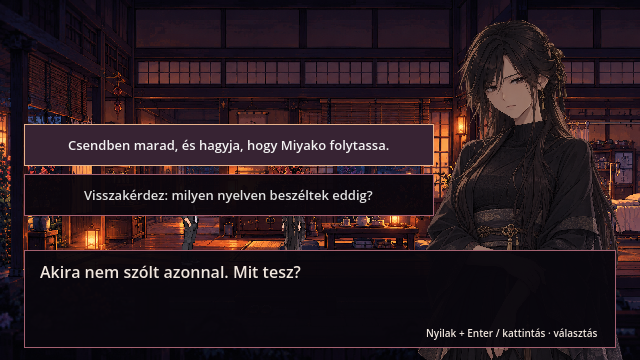
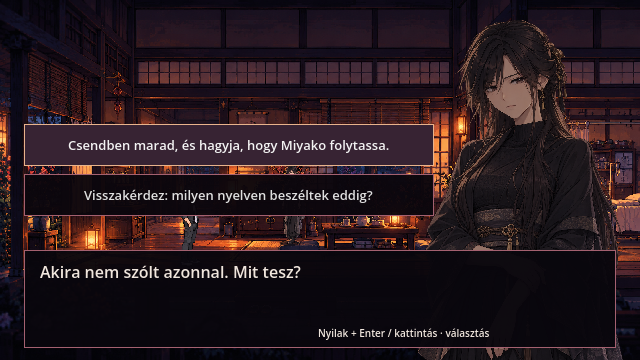
Unblock interior passage and add explicit dialogue continuation

Changed region(s): [[0.5, 0.9167, 0.9375, 0.9472], [0.4375, 0.5806, 0.5, 0.7028], [0.4375, 0.4583, 0.4688, 0.4889]]

diff --git a/docs/INTERIOR_PASSAGE_AND_CONTINUATION_REVIEW.md b/docs/INTERIOR_PASSAGE_AND_CONTINUATION_REVIEW.md
@@ -1,0 +1,11 @@
+# Átjárás és folytatás — 2026-10-03 REVIEW
+
+Miyako belső pozíciója (290,244), a meglévő járósáv előtt elegendő ütközési távolsággal. A szereplő továbbra is szilárd, Akira nem megy át rajta. A teszt tényleges jobbra/balra mozgással ellenőrzi a megkerülést. A padlóhatárok nem kerültek a lépcsőre vagy bútorokra.
+
+A VN külön kattintható Kiírás / Tovább / Válasz / Befejezés gombot kapott. A választóképernyőn ez eltűnik. A meglévő billentyűk megmaradtak.
+
+A benti párbeszéd lezárása után a jobb oldali sávban (x > 435) E indítja az első éjszaka forrás szerinti narrációját. Ez REVIEW szöveges fejezetátvezetés sötét háttérrel; hálószobakép és férfihang-felvétel még hiányzik. Miyako portréja nem jelenik meg az éjszakai említés alatt. Az utolsó nyugtázás first_night_seen jelzőt állít, majd fejezetzárás és főmenü-gomb következik. A II. fejezet nincs kész.
+
+Kuroe: origin/main ellenőrizve. A KUROE_PRODUCTION_SPEC.md, CHARACTER_BIBLE, DECISION_LOG és VISUAL_REFERENCE_INDEX már tartalmazza a 2026-10-03 LOCKED irányt. A hivatkozott KUROE_PRIMARY_CHARACTER_REFERENCE_V1.png, KUROE_STORY_KEY_VISUAL_V1.png és KUROE_MUSIC_ROOM_REFERENCE_V1.png nem található a GitHub fájlfájában. Nem készült kitalált helyettesítő karakter. A képi authority és a runtime atlasz továbbra is külön hiányzó asset.
+
+Ellenőrzés: tests/ui/interior_regression.tscn mindkét döntéság, mindkét irányú átjárás, éjszakai továbblépés, gombos szövegkiírás, szövegelhelyezés és záró jelző. A külső VN tesztje is lefutott.

diff --git a/docs/PROGRESS.md b/docs/PROGRESS.md
@@ -12,7 +12,9 @@ Miyako külső találkozása már kézzel léptethető VN-jelenet: névtábla, R
 
 Az első benti beszélgetés és két eredeti választása működik, explicit E-belépéssel, Library háttérrel, halkuló esővel és egyszeri állapotmódosítással. Lezárás után a nappali első járósávja használható. Részletek: [MIYAKO_INTERIOR_REVIEW](MIYAKO_INTERIOR_REVIEW.md).
 
-Hátralévő: a jóváhagyott Hana/Kuroe/Shion cameók, teljes házbelső és interakciók, első éjszaka, teljes 10–15 perces narratív flow, végleges VN-portrék, animáció és hang. Combat/inventory/route/komplex mentés nincs kész.
+Az átjárás javítva: Miyako mellett mindkét irányban el lehet menni. A VN külön Tovább gombot kapott. Jobbra E indítja az első éjszaka szöveges átvezetését, majd fejezetzárás és főmenü-gomb következik. Részletek: [INTERIOR_PASSAGE_AND_CONTINUATION_REVIEW](INTERIOR_PASSAGE_AND_CONTINUATION_REVIEW.md).
+
+Hátralévő: a jóváhagyott Hana/Kuroe/Shion cameók, teljes házbelső és interakciók, éjszakai kép/hang, II. fejezet, teljes 10–15 perces narratív flow, végleges VN-portrék, animáció és hang. Combat/inventory/route/komplex mentés nincs kész.
 
 2026-10-01 technikai rendezés: a régi 3D ág archive/legacy_3d alá került, importbeállításokkal és szerkesztőeszközökkel együtt. Az aktív arrival_director már csak Miyako köszöntését vezérli; Akira explicit street referenciát kap. A korábbi szöveg-, talaj- és ütközésjavítások megmaradtak.
 

diff --git a/README.md b/README.md
@@ -14,7 +14,7 @@ WASD / nyilak: séta. E: figyelés, továbbhaladás a helyszín kijáratánál, 
 
 ## Aktuális állapot
 
-Miyako előtt E indítja az első VN-jelenetet. E / Space / Enter / bal kattintás kiírja az aktuális mondatot, majd továbblép. A beszélgetés megvárja az olvasót. Utána újabb E belép a házba: benti beszélgetés, két eredeti választás, majd rövid bejárható belső sáv. A karakter keret nélküli, átlátszó hátterű REVIEW kép. Az első éjszaka még nincs beépítve.
+Miyako előtt E indítja az első VN-jelenetet. E / Space / Enter / bal kattintás kiírja az aktuális mondatot, majd továbblép. A beszélgetés megvárja az olvasót. Utána újabb E belép a házba: benti beszélgetés, két eredeti választás, majd rövid bejárható belső sáv. A karakter keret nélküli, átlátszó hátterű REVIEW kép. A beszélgetés után jobbra sétálva E indítja az első éjszaka szöveges átvezetését. A fejezet végén visszatérhetsz a főmenübe.
 
 REVIEW / PLACEHOLDER: négy női ambient NPC, mozgás, kamera, eső, járható úthatárok, előtér-takarás, kapunál állapotbiztos átadás, híd és Miyako köszöntése. Az oldalirányú járás nyolc képkockás, az előre/hátra ciklus négyképkockás. Ez nem a teljes 10–15 perces történeti flow.
 
